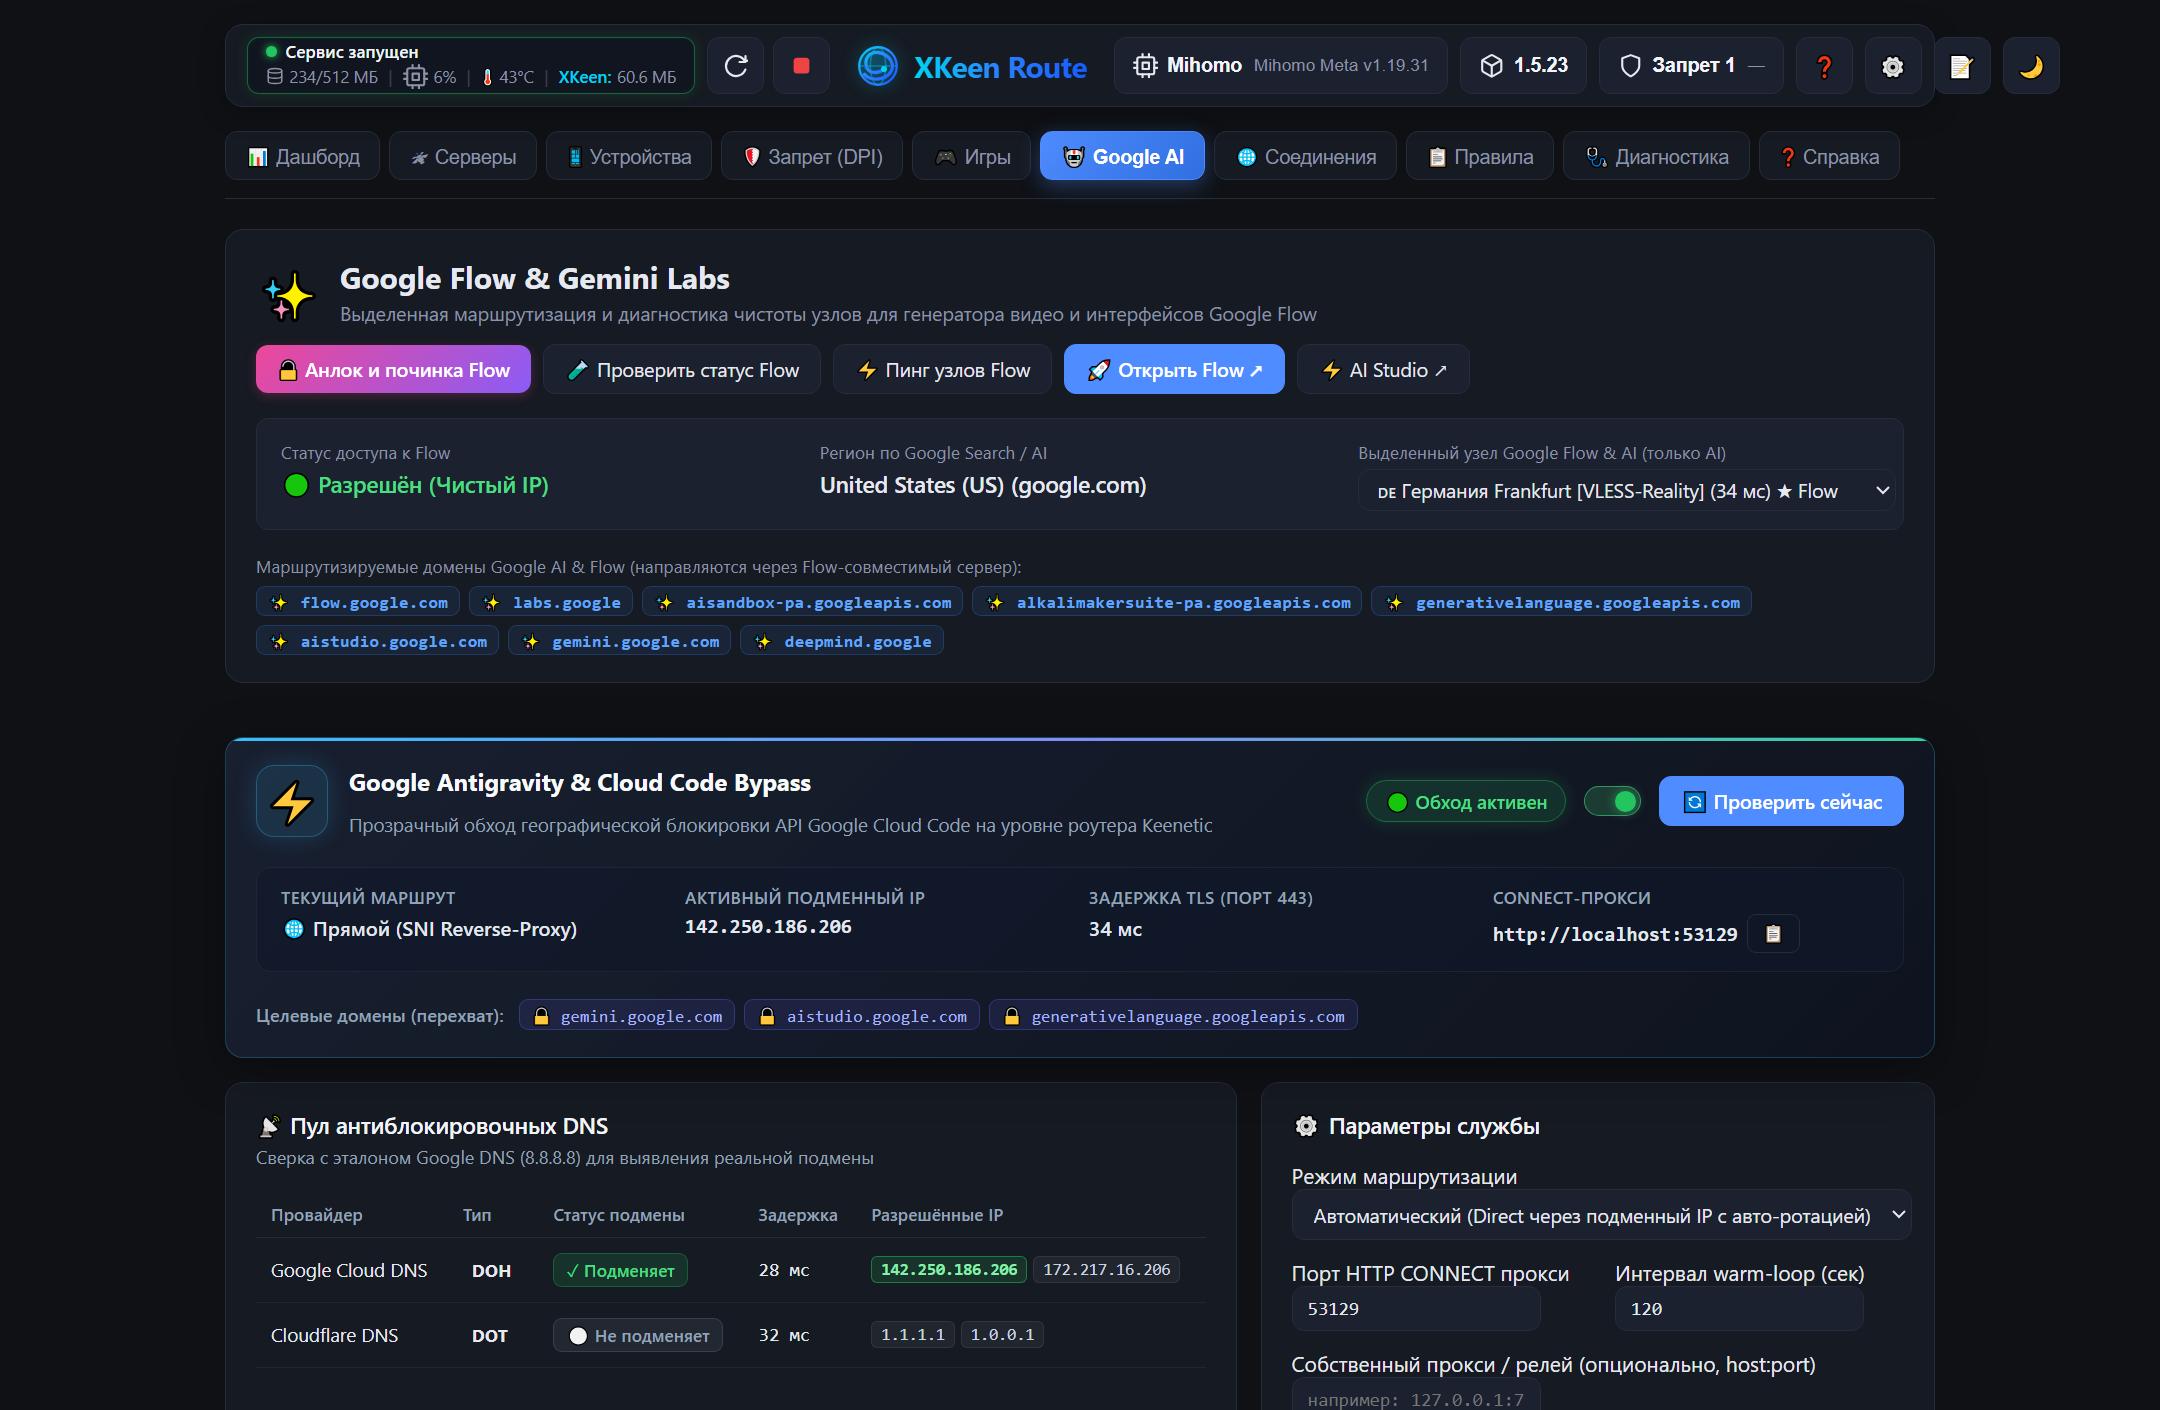
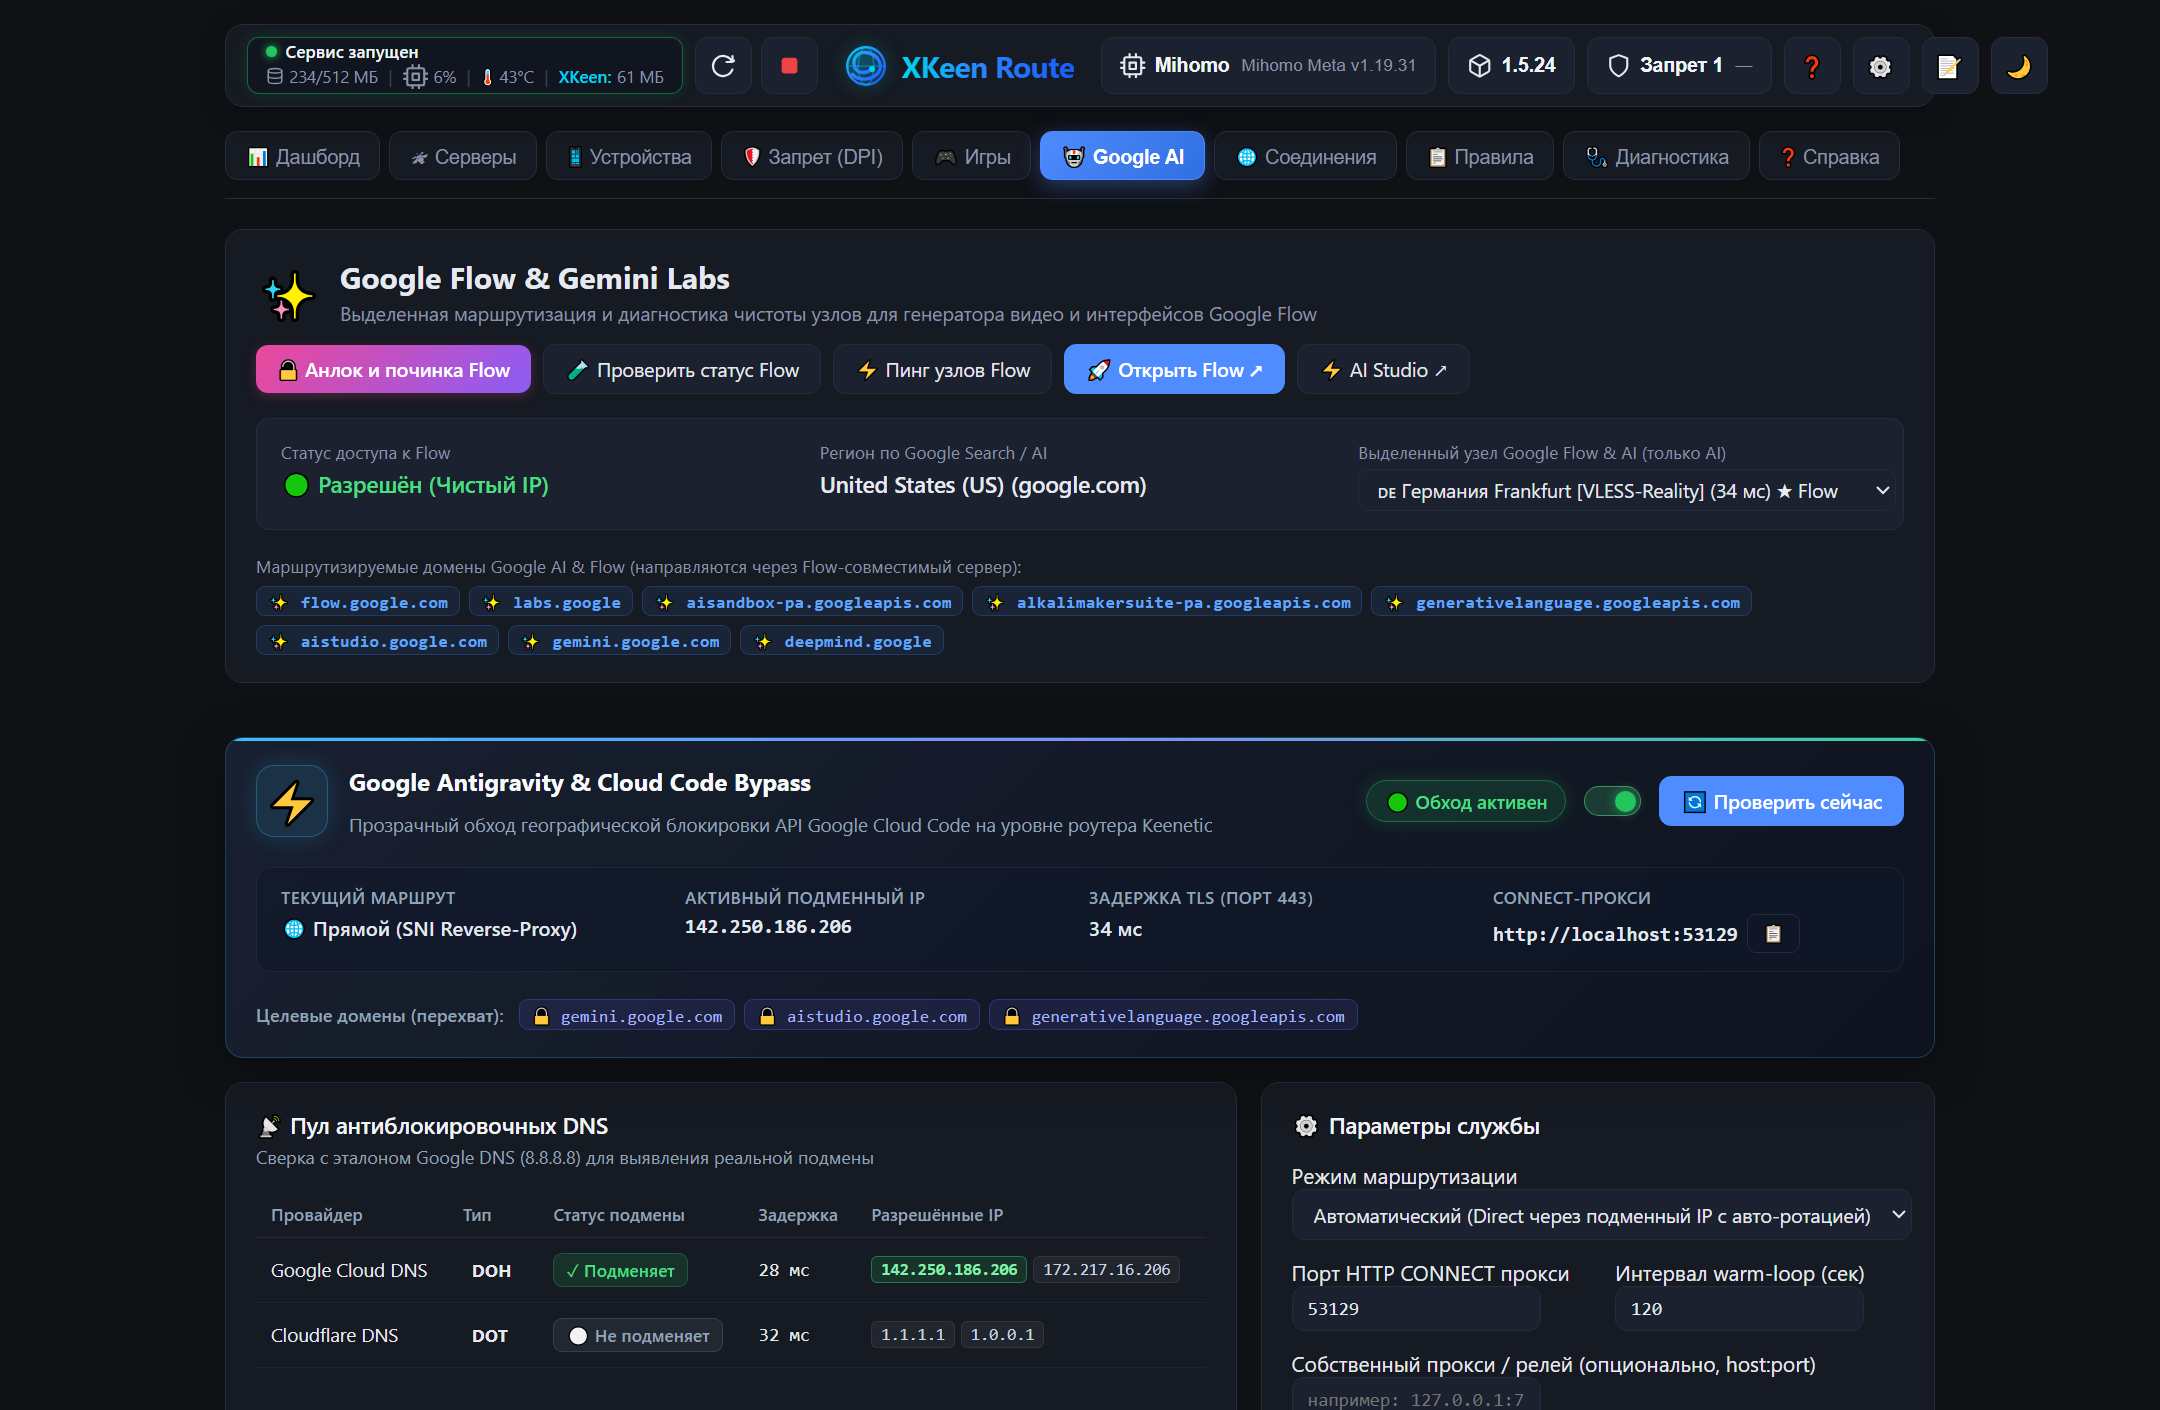
feat(v1.5.24): whole number metrics, failover primary blue accent, updated screenshots & test suite

Changed region(s): [[0.2792, 0.0312, 0.6514, 0.0624], [0.8375, 0.0312, 0.9616, 0.0624], [0.6824, 0.0312, 0.8065, 0.0624]]

diff --git a/frontend/src/components/Header.tsx b/frontend/src/components/Header.tsx
@@ -428,10 +428,10 @@ export default function Header({
                   <span className="status-stat-sep">|</span>
                   <span
                     className="status-stat"
-                    title={`Потребление XKeen: всего ${totalXkeenMem > 0 ? totalXkeenMem : appMemMb} МБ RAM (Панель XR: ${appMemMb} МБ, Ядро Mihomo: ${coreMemMb > 0 ? coreMemMb + ' МБ' : '—'}), CPU: ${appCpu}%`}
+                    title={`Потребление XKeen: всего ${Math.round(totalXkeenMem > 0 ? totalXkeenMem : appMemMb)} МБ RAM (Панель XR: ${Math.round(appMemMb)} МБ, Ядро Mihomo: ${coreMemMb > 0 ? Math.round(coreMemMb) + ' МБ' : '—'}), CPU: ${Math.round(appCpu)}%`}
                   >
                     <span className="status-xr-label">XKeen:</span>
-                    <span>{totalXkeenMem > 0 ? totalXkeenMem : appMemMb} МБ</span>
+                    <span>{Math.round(totalXkeenMem > 0 ? totalXkeenMem : appMemMb)} МБ</span>
                   </span>
                 </>
               )}

diff --git a/frontend/src/components/Dashboard.tsx b/frontend/src/components/Dashboard.tsx
@@ -404,7 +404,7 @@ export default function Dashboard({ status, notify, refresh, onSwitchTab }: Prop
                   <span>Позиция в цепочке</span>
                   <b>
                     {f!.priority_chain!.indexOf(status.active_server.id) === 0 ? (
-                      <span style={{ color: '#22c55e' }}>ОСН (основной)</span>
+                      <span style={{ color: '#38bdf8' }}>ОСН (основной)</span>
                     ) : (
                       <span style={{ color: '#eab308' }}>
                         РЕЗ{f!.priority_chain!.indexOf(status.active_server.id)} (резервный)

diff --git a/frontend/src/components/Header.test.tsx b/frontend/src/components/Header.test.tsx
@@ -406,10 +406,12 @@ describe('Header Component — Settings Navigation, Zapret 1/2 Pill & 5 AM Updat
       await new Promise((r) => setTimeout(r, 50))
     })
 
-    // 1. Whole integer rounded CPU temp
+    // 1. Whole integer rounded CPU temp & XKeen RAM consumption
     const text = container?.textContent || ''
     expect(text).toContain('43°C')
     expect(text).not.toContain('42.9°C')
+    expect(text).toContain('110 МБ')
+    expect(text).not.toContain('109.7 МБ')
 
     // 2. Gaming pill button must not be present
     expect(container?.querySelector('[data-testid="header-gaming-pill"]')).toBeNull()

diff --git a/scripts/capture_screenshots.js b/scripts/capture_screenshots.js
@@ -14,7 +14,7 @@ if (!fs.existsSync(SCREENSHOT_DIR)) {
 
 // 1. Mock API Data
 const mockStatus = {
-  version: "v1.5.23",
+  version: "v1.5.24",
   config_path: "/opt/etc/xkeen-route/config.json",
   router: {
     model: "Keenetic Peak (KN-4110) WBR3000UAX",

diff --git a/README.md b/README.md
@@ -58,7 +58,7 @@
 
 6. 📊 **Глубокая телеметрия, 60s буфер истории и документация API**
    - Кольцевой буфер истории трафика на 60 секунд прямо в памяти бэкенда (`TRAFFIC_HISTORY`): графики строятся мгновенно при первом открытии панели.
-   - Монитор системных ресурсов роутера (CPU%, RAM, температура процессора с округлением до целых градусов и красной тревогой при >90°C).
+   - Монитор системных ресурсов роутера (CPU%, RAM, температура процессора и расход памяти XKeen в целых числах, красная тревога при >90°C).
    - Встроенный интерактивный справочник REST API в окне Справки со всеми curl-командами для каждого эндпоинта.
 
 ---
@@ -71,7 +71,7 @@
 
 Центральный пункт управления и мониторинга состояния домашней сети и роутера:
 - **Живой график пропускной способности**: раздельное отображение прямого трафика провайдера (`Direct`, зеленый) и трафика через прокси (`Proxy`, фиолетовый) с выбором режима (Загрузка / Отдача / Сумма). Мгновенное построение благодаря 60-секундной истории из памяти.
-- **Метрики оборудования**: загрузка процессора роутера, температура CPU в целых градусах, общая занятая оперативная память и детализированный расход стека XKeen (веб-панель + ядро Mihomo).
+- **Метрики оборудования**: загрузка процессора роутера, температура CPU, общая занятая оперативная память и детализированный расход стека XKeen (веб-панель + ядро Mihomo) в целых числах без плавающих десятых.
 - **Hero-карточка активного сервера**: стильная небесно-синяя индикация статуса «🔵 В сети», протокол подключения (VLESS Reality, Shadowsocks и др.), название подписки, текущий пинг с цветной градацией и Sparkline-график стабильности отклика.
 - **Интерактивный Failover**: статус фонового мониторинга, текущая позиция в цепочке серверов (ОСН / РЕЗn), порог пинга и журнал событий переключения с умной группировкой повторов (`×N`).
 

diff --git a/DEVELOPMENT.md b/DEVELOPMENT.md
@@ -966,6 +966,14 @@
   * **Динамический бейдж Mini-Blockcheck:** Устранен хардкод zapret2 engine при активном движке v1.
   * **Точный расчет задержек YouTube:** Исключен ложный учет 4-секундного таймаута заблокированного curl probe как сетевой задержки.
 
+## v1.5.24 (Whole Number Metrics Rounding, Failover Primary Blue Accent & Visual Refinements)
+- **Целые числа для всех системных метрик (`frontend/src/components/Header.tsx`, `Header.test.tsx`)**:
+  * Округление оперативной памяти XKeen и нагрузки процессора до целых чисел (`Math.round(...)`), исключая появление дробных хвостов вроде `60.6 МБ` или `105.4 МБ`.
+- **Единый небесно-синий цвет для активного сервера (`frontend/src/components/Dashboard.tsx`)**:
+  * Статус основного сервера в карточке Failover-контроля (`ОСН (основной)`) переведён с зелёного на фирменный синий (`#38bdf8`), обеспечивая визуальное единство с карточкой активного сервера.
+- **Очистка стилей и анти-регрессионные тесты (`frontend/src/styles.css`, `scripts/regression-tests.cjs`)**:
+  * Удаление устаревших неиспользуемых CSS-стилей кнопки Zapret, расширение теста 20 на валидацию округления памяти XKeen и синего акцента цепочки серверов.
+
 ## v1.5.23 (Device Zapret Toggle Switch, Whole CPU Temp, Blue Active Server Card & Header Cleanup)
 - **Удобный тумблер Запрета в таблице устройств (`frontend/src/components/DeviceRow.tsx`, `Devices.test.tsx`)**:
   * Замена кнопки на стандартный компактный переключатель-тумблер (`.switch` с `.slider`) в колонке «Zapret (DPI)».
